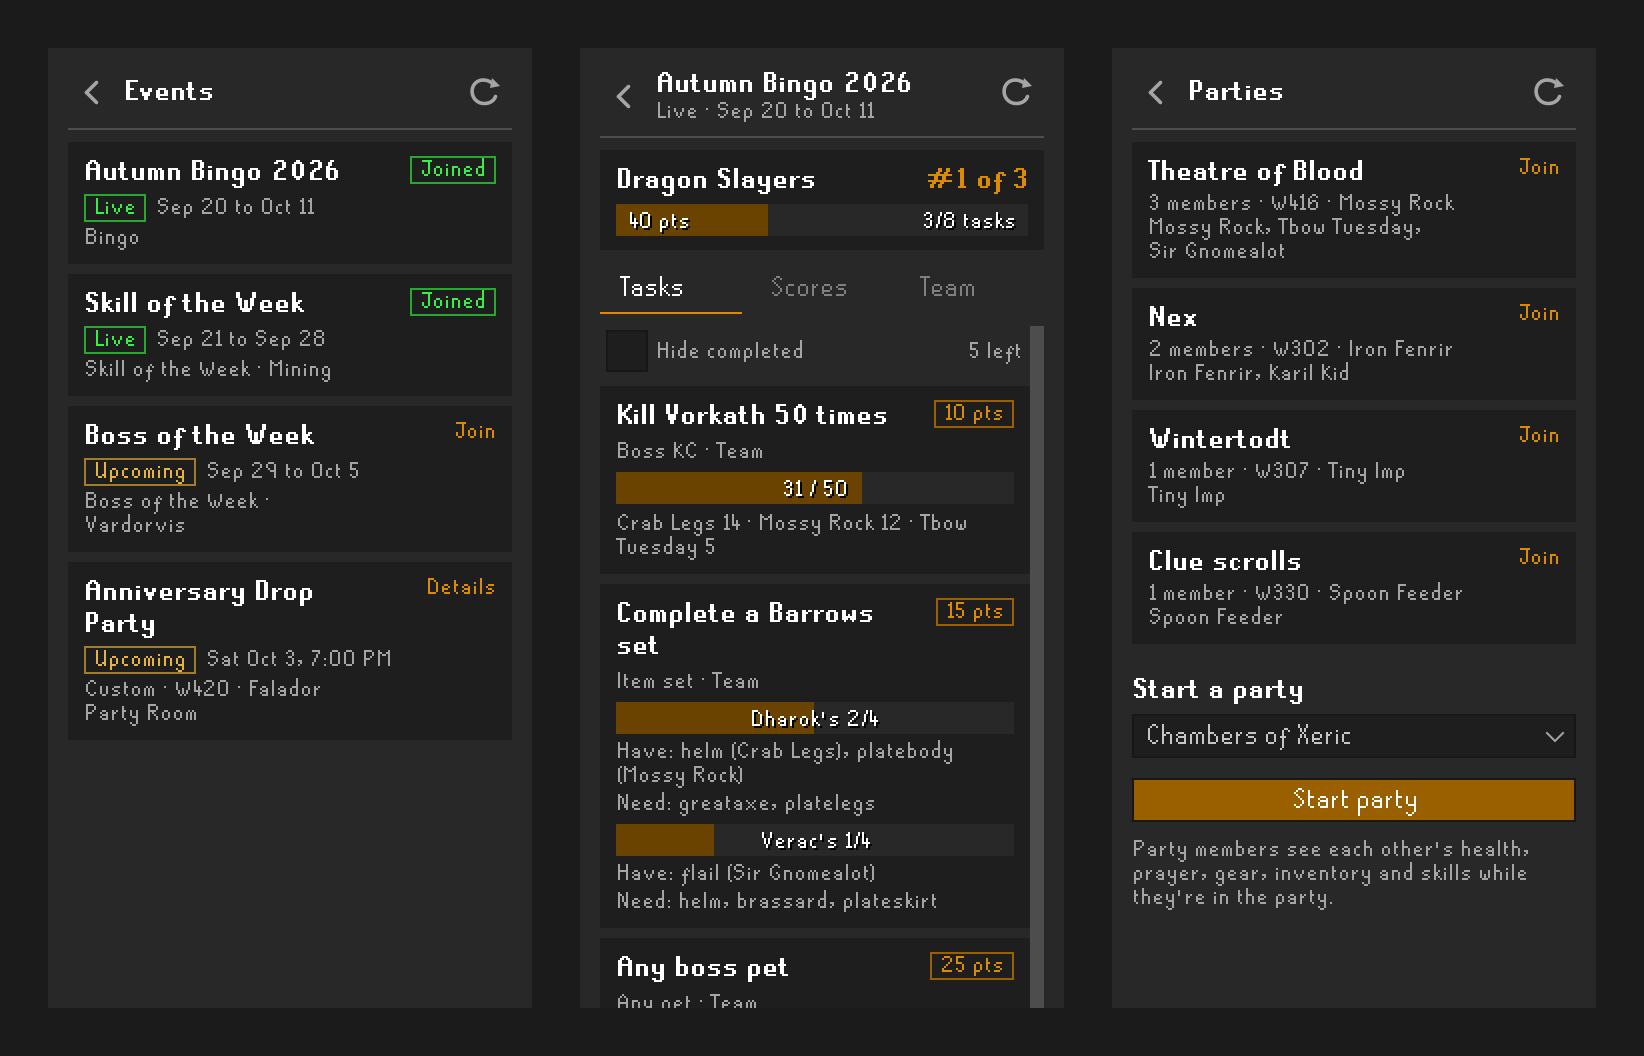
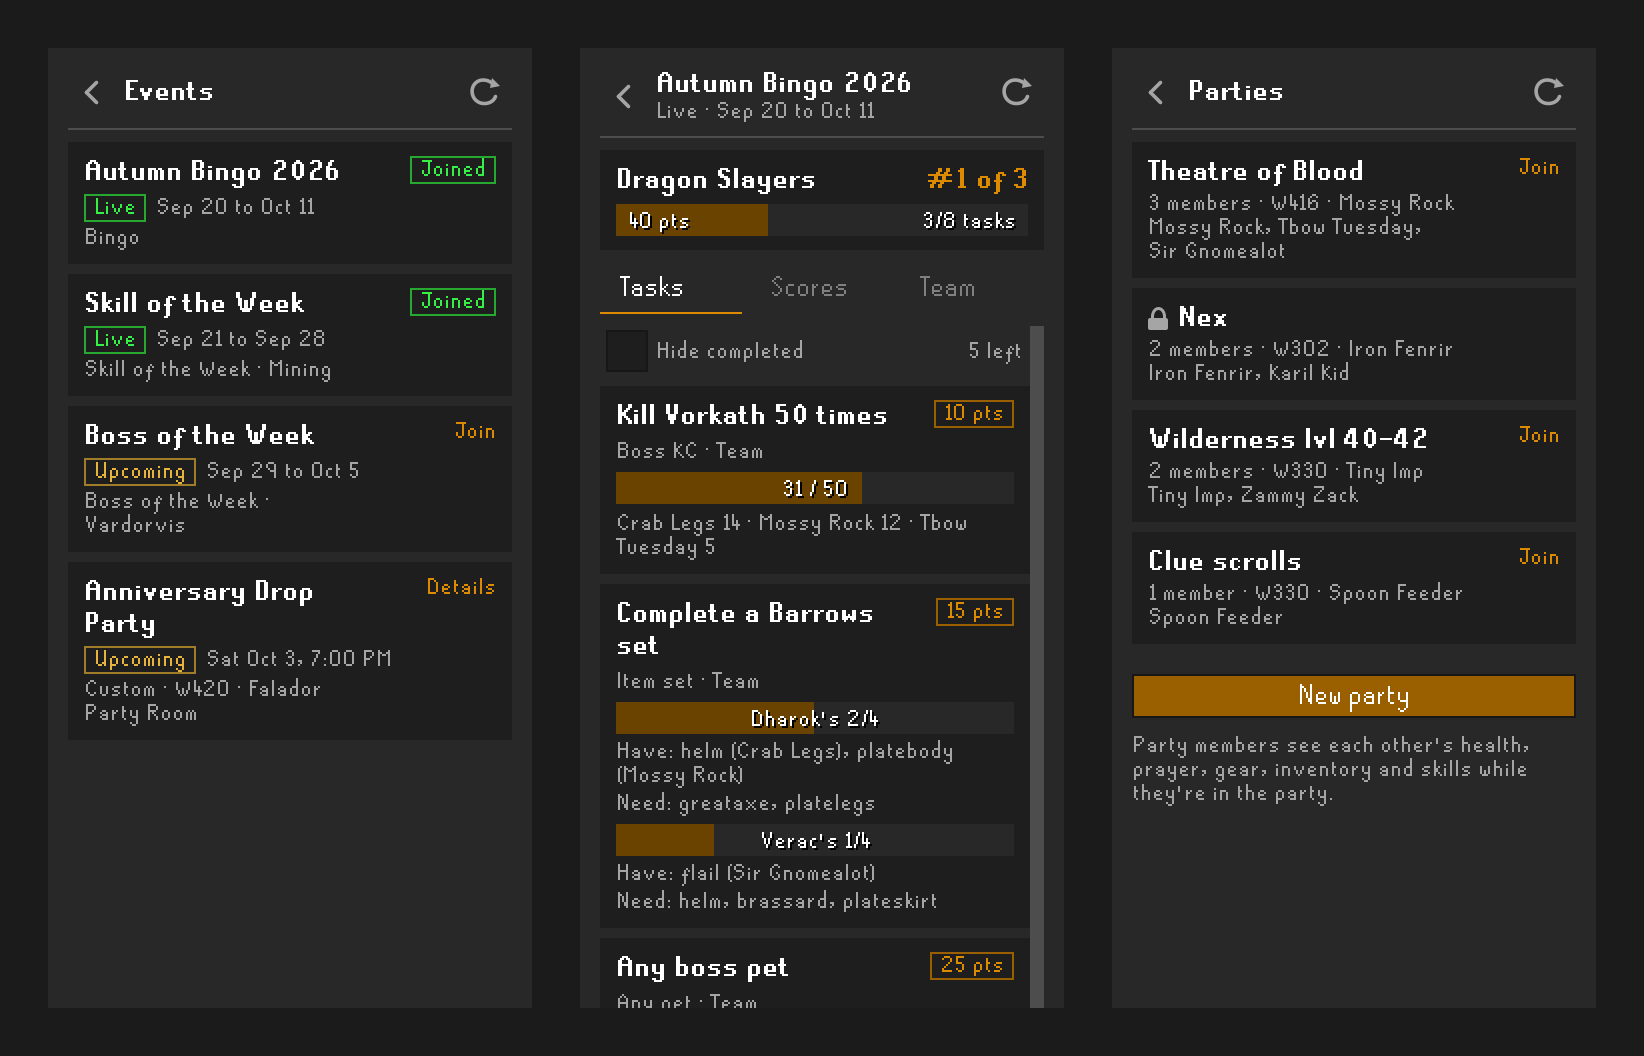
docs: refresh screenshots and README layout

diff --git a/README.md b/README.md
@@ -18,22 +18,16 @@ Clan events for **Type Shiii Gaming** (TSG), right in your RuneLite sidebar. Joi
 
 ## Bingo
 
-<table>
-<tr>
-<td valign="top"><img src="docs/images/board-tasks.png" width="242" alt="A team's bingo board with progress on each task"></td>
-<td valign="top">
-
 Your team's board opens straight from the sidebar. Every task shows its points, a progress bar, and who contributed what. Open tasks sort first; tick **Hide completed** to focus on what's left.
 
-**Scores** ranks every team, and **Team** lists your teammates. The board refreshes itself every minute while it's open.
+**Scores** ranks every team, and **Team** lists your teammates. The board updates live while it's open.
 
 When you make progress, a message appears in **your own chatbox only**. When your team finishes a tile, teammates who are online in clan chat get a local alert too. TSG Hub never posts to public or clan chat.
 
-<img src="docs/images/board-scores.png" width="242" alt="Team scoreboard">
-
-</td>
-</tr>
-</table>
+<p>
+<img src="docs/images/board-tasks.png" width="320" alt="A team's bingo board with progress on each task">
+<img src="docs/images/board-scores.png" width="320" alt="Team scoreboard">
+</p>
 
 ### What gets tracked
 
@@ -51,42 +45,27 @@ Tasks can be **Team** (everyone's progress pools together), **Everyone** (each m
 
 ## Competitions and custom events
 
-<table>
-<tr>
-<td valign="top"><img src="docs/images/competition.png" width="242" alt="Skill of the Week leaderboard"></td>
-<td valign="top">
-
 **Skill of the Week** tracks the XP you gain in one skill. **Boss of the Week** counts kills of one boss. Click the event, press join, and play: your gain and rank update as you go.
 
 **Custom events**, like drop parties, show when and where they happen, in your own time zone, along with the host and any notes.
 
-</td>
-</tr>
-</table>
+<p>
+<img src="docs/images/competition.png" width="320" alt="Skill of the Week leaderboard">
+</p>
 
 ## Clan parties
 
-<table>
-<tr>
-<td valign="top"><img src="docs/images/parties.png" width="242" alt="Clan party list"></td>
-<td valign="top">
+The **Parties** section lists every open party in the clan, with its title, world and members. Click one to join, or start your own. A new party is titled by where its members are, like `Theatre of Blood` or `Wilderness lvl 40-42`, until a title is set. The leader can use **Lock party** to stop anyone else joining.
 
-The **Parties** section lists every open party in the clan, with its activity, world and members. Click one to join, or start your own: pick a raid, a group boss, a minigame, or type your own activity.
-
-There's no passphrase to share. Once you're in, each member's panel shows their health, prayer, special attack, run energy, gear, inventory, skills and active prayers, live over RuneLite's party connection.
+There's no passphrase to share. Once you're in, each member's panel shows their health, prayer, special attack, run energy, gear, inventory, skills and active prayers, live over RuneLite's party connection. Right-click a member to hop to their world, or to move them up or down your list.
 
 A party closes when its last member leaves. Members drop out after 3 minutes without checking in, or after 30 minutes at the login screen.
 
-</td>
-</tr>
-</table>
+<p>
+<img src="docs/images/parties.png" width="320" alt="Clan party list">
+</p>
 
 ## Members
-
-<table>
-<tr>
-<td valign="top"><img src="docs/images/members.png" width="242" alt="Online clan members with their world, area and activity"></td>
-<td valign="top">
 
 The **Members** section lists clanmates who are in clan chat with sharing on. Each row shows their world, area and what they're doing, such as `Skilling - Mining`, `Bossing - Vorkath` or `Raiding - Chambers of Xeric`.
 
@@ -94,24 +73,19 @@ Activity is detected automatically from where you are and the XP you gain. Only 
 
 Anyone in clan chat with sharing on appears in the list. Your area and activity are only shown if you turn on **Share location and activity** under **Sharing** in the plugin settings; otherwise clanmates just see **Online** and your world, the same as clan chat shows. Leave clan chat to hide yourself, and you also drop off the list when you log out.
 
-</td>
-</tr>
-</table>
+<p>
+<img src="docs/images/members.png" width="320" alt="Online clan members with their world, area and activity">
+</p>
 
 ## Drops
-
-<table>
-<tr>
-<td valign="top"><img src="docs/images/drops.png" width="242" alt="Recent clan drops with item, player, value and time"></td>
-<td valign="top">
 
 The **Drops** section keeps a history of the clan's big drops, so you can see what clanmates got while you were offline. Each row shows the item, who got it, its value and how long ago.
 
 It's built from the clan chat broadcasts your clan already has turned on: drops over the clan's value threshold, raid loot, pets and new collection log items. Anyone online with sharing on records them, so drops from clanmates who don't use TSG Hub show up too. If several people see the same broadcast, it's only recorded once.
 
-</td>
-</tr>
-</table>
+<p>
+<img src="docs/images/drops.png" width="320" alt="Recent clan drops with item, player, value and time">
+</p>
 
 ## Getting started
 
@@ -119,6 +93,10 @@ It's built from the clan chat broadcasts your clan already has turned on: drops 
 2. Log in to a character in the TSGaming clan and open the TSG Hub sidebar.
 3. Click **Enable sharing**. Nothing is sent until you do.
 4. Pick an event. For bingo, enter the team code an admin gave you. Your team is fixed once you join.
+
+<p>
+<img src="docs/images/home.png" width="320" alt="TSG Hub home with Events, Parties, Members and Drops tiles">
+</p>
 
 **Disconnect from event** on the **Team** tab stops tracking on this device. Your team keeps its progress, and you can rejoin with the same code.
 
@@ -147,10 +125,11 @@ Once you opt in, it sends the following to the TSG Hub service:
 - Progress for events you've joined: kill counts, drops, raid completions, collection log unlocks and skill XP
 - Loot you receive while a bingo event you've joined is active, so admins can reconcile a task from earlier drops if its item list changes
 - Manual proof you submit
-- Whether you're currently in the clan chat channel, so teammates' completion alerts reach you
+- Whether you're currently in the clan chat channel and your world, so teammates' completion alerts reach you and clanmates see you as online
+- With **Share location and activity** on, your area name and current activity (never your exact tile)
 - Clan chat broadcasts for drops, raid loot, pets and collection log items, for the clan's **Drops** history
 
-In a clan party, your stats, gear and inventory go to the other members through **RuneLite's party service**, not the TSG Hub service. The TSG Hub service only learns your display name, party and world.
+In a clan party, your stats, gear and inventory go to the other members through **RuneLite's party service**, not the TSG Hub service. The TSG Hub service only learns your display name, party and world, plus your area name if location sharing is on.
 
 Turning sharing off, or disconnecting from an event, deletes your local token and asks the service to revoke it. Progress your team already earned stays with the clan.
 
